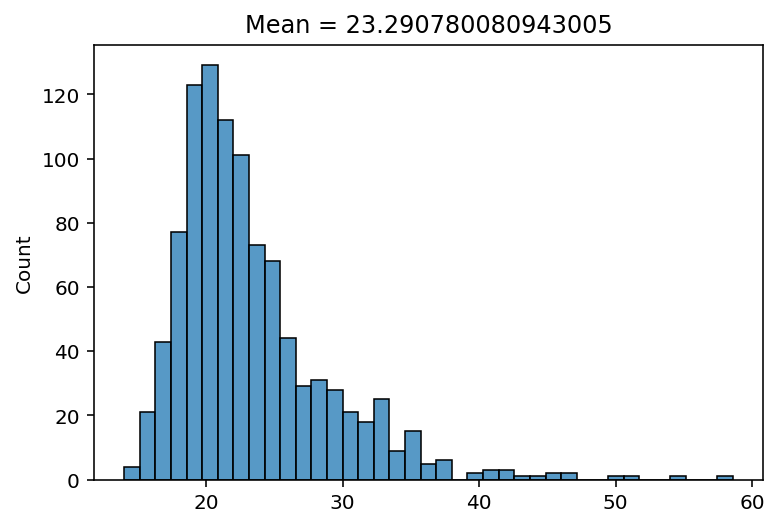
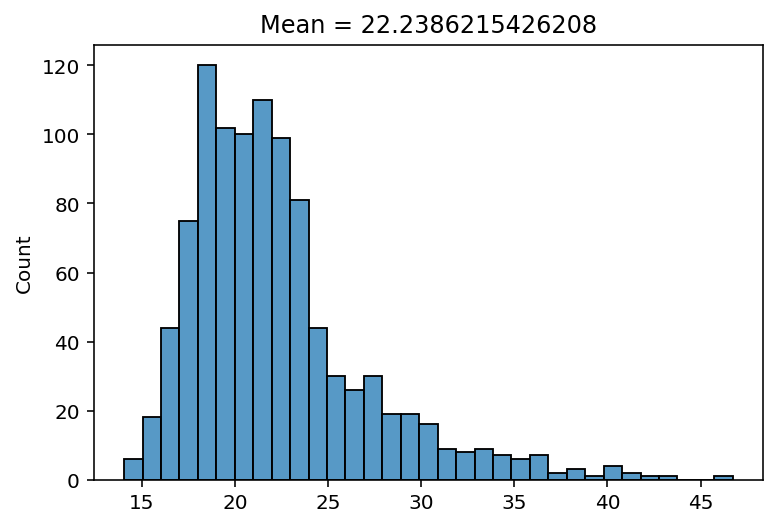
Minor

diff --git a/experiments/sched-sim.html b/experiments/sched-sim.html
@@ -173,7 +173,7 @@ code span.wa { color: #60a0b0; font-weight: bold; font-style: italic; } /* Warni
 <h2 class="anchored" data-anchor-id="run-simulation-1">Run simulation 1</h2>
 <p><img src="images/slideger1.png" class="img-fluid"></p>
 <div class="cell" data-execution_count="2">
-<div class="sourceCode cell-code" id="cb2"><pre class="sourceCode python code-with-copy"><code class="sourceCode python"><span id="cb2-1"><a href="#cb2-1" aria-hidden="true" tabindex="-1"></a>iats <span class="op">=</span> np.array([<span class="dv">0</span>, <span class="dv">15</span>, <span class="dv">15</span>, <span class="dv">15</span>, <span class="dv">15</span>, <span class="dv">15</span>, <span class="dv">15</span>, <span class="dv">15</span>, <span class="dv">15</span>, <span class="dv">15</span>, <span class="dv">15</span>, <span class="dv">15</span>]) <span class="co"># arrival times</span></span>
+<div class="sourceCode cell-code" id="cb2"><pre class="sourceCode python code-with-copy"><code class="sourceCode python"><span id="cb2-1"><a href="#cb2-1" aria-hidden="true" tabindex="-1"></a>iats <span class="op">=</span> np.array([<span class="dv">0</span>, <span class="dv">15</span>, <span class="dv">15</span>, <span class="dv">15</span>, <span class="dv">15</span>, <span class="dv">15</span>, <span class="dv">15</span>, <span class="dv">15</span>, <span class="dv">15</span>, <span class="dv">15</span>, <span class="dv">15</span>, <span class="dv">15</span>]) <span class="co"># inter-arrival times</span></span>
 <span id="cb2-2"><a href="#cb2-2" aria-hidden="true" tabindex="-1"></a></span>
 <span id="cb2-3"><a href="#cb2-3" aria-hidden="true" tabindex="-1"></a>nSims <span class="op">=</span> nSims <span class="co"># number of simulations</span></span>
 <span id="cb2-4"><a href="#cb2-4" aria-hidden="true" tabindex="-1"></a>simRes <span class="op">=</span> [] <span class="co"># array for saving simulation results</span></span>
@@ -192,7 +192,7 @@ code span.wa { color: #60a0b0; font-weight: bold; font-style: italic; } /* Warni
 <div class="sourceCode cell-code" id="cb3"><pre class="sourceCode python code-with-copy"><code class="sourceCode python"><span id="cb3-1"><a href="#cb3-1" aria-hidden="true" tabindex="-1"></a>fig <span class="op">=</span> sns.histplot(simRes)</span>
 <span id="cb3-2"><a href="#cb3-2" aria-hidden="true" tabindex="-1"></a>fig.<span class="bu">set</span>(title<span class="op">=</span><span class="ss">f"Mean = </span><span class="sc">{</span>mwt<span class="sc">}</span><span class="ss">"</span>)</span></code><button title="Copy to Clipboard" class="code-copy-button"><i class="bi"></i></button></pre></div>
 <div class="cell-output cell-output-display" data-execution_count="3">
-<pre><code>[Text(0.5, 1.0, 'Mean = 4.011757245447204')]</code></pre>
+<pre><code>[Text(0.5, 1.0, 'Mean = 3.6752572324178647')]</code></pre>
 </div>
 <div class="cell-output cell-output-display">
 <p><img src="sched-sim_files/figure-html/cell-4-output-2.png" class="img-fluid"></p>
@@ -203,7 +203,7 @@ code span.wa { color: #60a0b0; font-weight: bold; font-style: italic; } /* Warni
 <h2 class="anchored" data-anchor-id="run-simulation-2">Run simulation 2</h2>
 <p><img src="images/slideger2.png" class="img-fluid"></p>
 <div class="cell" data-execution_count="4">
-<div class="sourceCode cell-code" id="cb5"><pre class="sourceCode python code-with-copy"><code class="sourceCode python"><span id="cb5-1"><a href="#cb5-1" aria-hidden="true" tabindex="-1"></a>iats <span class="op">=</span> np.array([<span class="dv">0</span>, <span class="dv">0</span>, <span class="dv">15</span>, <span class="dv">15</span>, <span class="dv">15</span>, <span class="dv">15</span>, <span class="dv">15</span>, <span class="dv">15</span>, <span class="dv">15</span>, <span class="dv">15</span>, <span class="dv">15</span>, <span class="dv">15</span>]) <span class="co"># arrival times</span></span>
+<div class="sourceCode cell-code" id="cb5"><pre class="sourceCode python code-with-copy"><code class="sourceCode python"><span id="cb5-1"><a href="#cb5-1" aria-hidden="true" tabindex="-1"></a>iats <span class="op">=</span> np.array([<span class="dv">0</span>, <span class="dv">0</span>, <span class="dv">15</span>, <span class="dv">15</span>, <span class="dv">15</span>, <span class="dv">15</span>, <span class="dv">15</span>, <span class="dv">15</span>, <span class="dv">15</span>, <span class="dv">15</span>, <span class="dv">15</span>, <span class="dv">15</span>]) <span class="co"># inter-arrival times</span></span>
 <span id="cb5-2"><a href="#cb5-2" aria-hidden="true" tabindex="-1"></a></span>
 <span id="cb5-3"><a href="#cb5-3" aria-hidden="true" tabindex="-1"></a>nSims <span class="op">=</span> nSims <span class="co"># number of simulations</span></span>
 <span id="cb5-4"><a href="#cb5-4" aria-hidden="true" tabindex="-1"></a>simRes <span class="op">=</span> [] <span class="co"># array for saving simulation results</span></span>
@@ -222,7 +222,7 @@ code span.wa { color: #60a0b0; font-weight: bold; font-style: italic; } /* Warni
 <div class="sourceCode cell-code" id="cb6"><pre class="sourceCode python code-with-copy"><code class="sourceCode python"><span id="cb6-1"><a href="#cb6-1" aria-hidden="true" tabindex="-1"></a>fig <span class="op">=</span> sns.histplot(simRes)</span>
 <span id="cb6-2"><a href="#cb6-2" aria-hidden="true" tabindex="-1"></a>fig.<span class="bu">set</span>(title<span class="op">=</span><span class="ss">f"Mean = </span><span class="sc">{</span>mwt<span class="sc">}</span><span class="ss">"</span>)</span></code><button title="Copy to Clipboard" class="code-copy-button"><i class="bi"></i></button></pre></div>
 <div class="cell-output cell-output-display" data-execution_count="5">
-<pre><code>[Text(0.5, 1.0, 'Mean = 10.70795064998829')]</code></pre>
+<pre><code>[Text(0.5, 1.0, 'Mean = 9.711100019452996')]</code></pre>
 </div>
 <div class="cell-output cell-output-display">
 <p><img src="sched-sim_files/figure-html/cell-6-output-2.png" class="img-fluid"></p>
@@ -233,7 +233,7 @@ code span.wa { color: #60a0b0; font-weight: bold; font-style: italic; } /* Warni
 <h2 class="anchored" data-anchor-id="run-simulation-3">Run simulation 3</h2>
 <p><img src="images/slideger3.png" class="img-fluid"></p>
 <div class="cell" data-execution_count="6">
-<div class="sourceCode cell-code" id="cb8"><pre class="sourceCode python code-with-copy"><code class="sourceCode python"><span id="cb8-1"><a href="#cb8-1" aria-hidden="true" tabindex="-1"></a>iats <span class="op">=</span> np.array([<span class="dv">0</span>, <span class="dv">0</span>, <span class="dv">0</span>, <span class="dv">0</span>, <span class="dv">60</span>, <span class="dv">0</span>, <span class="dv">0</span>, <span class="dv">0</span>, <span class="dv">60</span>, <span class="dv">0</span>, <span class="dv">0</span>, <span class="dv">0</span>]) <span class="co"># arrival times</span></span>
+<div class="sourceCode cell-code" id="cb8"><pre class="sourceCode python code-with-copy"><code class="sourceCode python"><span id="cb8-1"><a href="#cb8-1" aria-hidden="true" tabindex="-1"></a>iats <span class="op">=</span> np.array([<span class="dv">0</span>, <span class="dv">0</span>, <span class="dv">0</span>, <span class="dv">0</span>, <span class="dv">60</span>, <span class="dv">0</span>, <span class="dv">0</span>, <span class="dv">0</span>, <span class="dv">60</span>, <span class="dv">0</span>, <span class="dv">0</span>, <span class="dv">0</span>]) <span class="co"># inter-arrival times</span></span>
 <span id="cb8-2"><a href="#cb8-2" aria-hidden="true" tabindex="-1"></a></span>
 <span id="cb8-3"><a href="#cb8-3" aria-hidden="true" tabindex="-1"></a>nSims <span class="op">=</span> nSims <span class="co"># number of simulations</span></span>
 <span id="cb8-4"><a href="#cb8-4" aria-hidden="true" tabindex="-1"></a>simRes <span class="op">=</span> [] <span class="co"># array for saving simulation results</span></span>
@@ -252,7 +252,7 @@ code span.wa { color: #60a0b0; font-weight: bold; font-style: italic; } /* Warni
 <div class="sourceCode cell-code" id="cb9"><pre class="sourceCode python code-with-copy"><code class="sourceCode python"><span id="cb9-1"><a href="#cb9-1" aria-hidden="true" tabindex="-1"></a>fig <span class="op">=</span> sns.histplot(simRes)</span>
 <span id="cb9-2"><a href="#cb9-2" aria-hidden="true" tabindex="-1"></a>fig.<span class="bu">set</span>(title<span class="op">=</span><span class="ss">f"Mean = </span><span class="sc">{</span>mwt<span class="sc">}</span><span class="ss">"</span>)</span></code><button title="Copy to Clipboard" class="code-copy-button"><i class="bi"></i></button></pre></div>
 <div class="cell-output cell-output-display" data-execution_count="7">
-<pre><code>[Text(0.5, 1.0, 'Mean = 23.290780080943005')]</code></pre>
+<pre><code>[Text(0.5, 1.0, 'Mean = 22.2386215426208')]</code></pre>
 </div>
 <div class="cell-output cell-output-display">
 <p><img src="sched-sim_files/figure-html/cell-8-output-2.png" class="img-fluid"></p>
